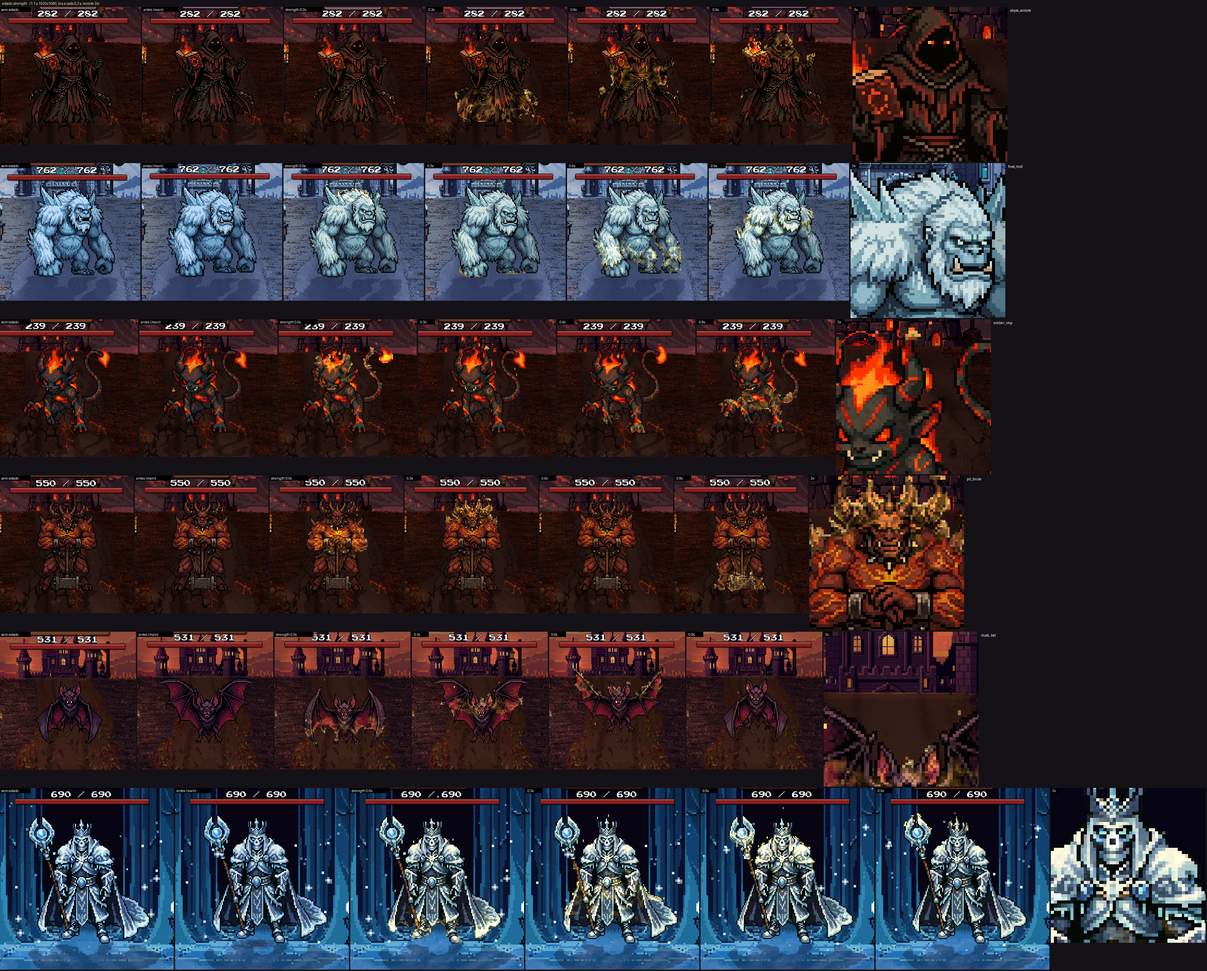
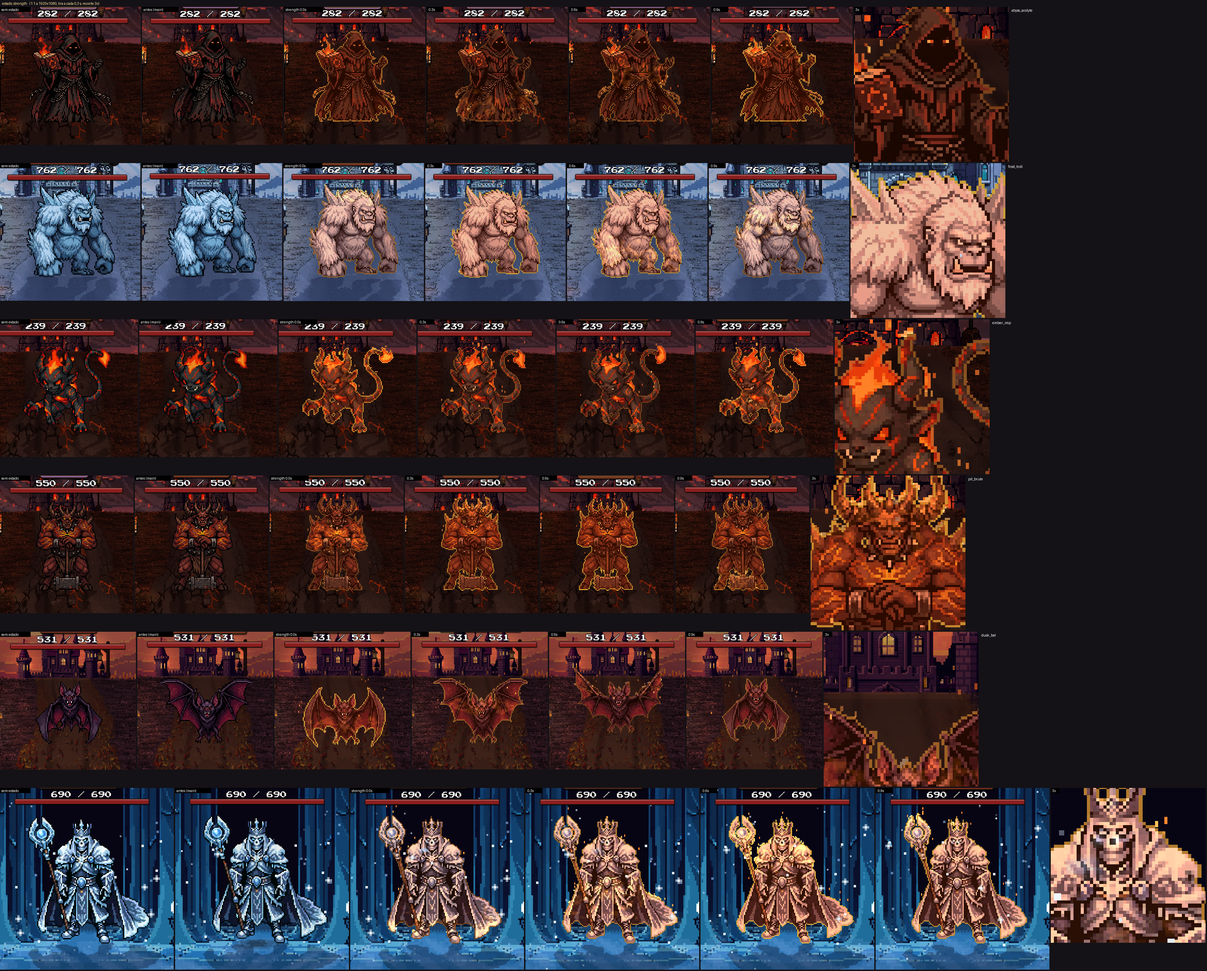
Estados v2, revisao do lead: forca, bloqueio, veu, furia e regeneracao
- forca: pulso quente vermelho-alaranjado constante, borda de 1 px de arte
  acendendo a cada pulso, faiscas continuas dos ombros e bracos; legivel em
  qualquer quadro, nao so no pico.
- bloqueio: nao dessatura nem escurece (so clareia), emissivo intacto (o
  fogo do diabrete fica); reflexo aco-azulado a cada 1,5 s, contorno de aco
  de 1 px dentro do sprite e brilhos nas bordas.
- veu: transparencia em dither correndo em faixas, fiapos finos e poucos na
  borda; sem as manchas cinza.
- furia: pico do batimento com teto, o corpo mantem o detalhe.
- regeneracao: cruzes verdes sobem de baixo para dentro do corpo.
- testes: medicao de faixa reta a 0,65 (a faixa antiga mede 1,0), pixels
  checados por ultimo, alocacao do downdraft pelo minimo de 3 rodadas;
  test_enemy_shadow_motion usa o relogio falso no bloco novo (o frame de
  sombra vazava para as suites seguintes) e libera ImageData/Canvas.
- captura libera cada ImageData depois de gravar.

diff --git a/memory/enemy_life.md b/memory/enemy_life.md
@@ -92,16 +92,19 @@ uma linha preta reta do torso ao pe" (era o sprite redesenhado escuro sob scisso
   cabeca, 3 estrelinhas tontas orbitando a cabeca (passam atras/na frente pela fase).
 - vulnerable: pulso violeta (mistura + aditivo), rachaduras em zigue-zague perto da borda que brilham em
   sequencia e acendem todas no tremor (guarda quebrada), brilhos lilas na borda.
-- strength: tom dourado e onda de forca subindo com frente ondulada (ruido), borda acende so quando a onda
-  passa, lambidas douradas de 1-3 texels acima da borda na onda, faiscas douradas com rastro de 2 px.
-- enraged: vermelho em batimento duplo (+ aditivo), olhos pulsando, rajadas de 10 baforadas de vapor
+- strength (revisto pelo lead): pulso quente vermelho-alaranjado CONSTANTE no corpo (4,2 rad/s), borda de 1 px
+  de arte (dentro do sprite) acendendo a cada pulso, onda dourada ondulada subindo por cima, lambidas de 1-3
+  texels acima da borda na onda, faiscas continuas das bordas de cima (ombros, bracos) com rastro de 2 px.
+- enraged: vermelho em batimento duplo com teto (o pico nao vira flash de dano), olhos pulsando, rajadas de 10 baforadas de vapor
   (1->2x2->cruz 3x3) com tremedeira de 0,3 s em cada rajada, idle 1,3x.
-- regen: onda verde-menta sobe pelo corpo (frente por ruido), centelhas no corpo, cruzes verdes nascem fora
-  do contorno e voam para dentro (`absorb`).
-- block: tom de aco frio, faixa de reflexo diagonal varrendo a cada 1,7 s (clara na frente, escura atras,
-  pela luminancia do pixel), borda brilha na faixa, brilhos de aco ocasionais.
-- veil: corpo translucido que respira (alfa 0,66-0,94), lavado frio, faixas de nevoa inclinadas atravessando o
-  corpo e em volta (ate 6 texels), nevoa nos pes.
+- regen: onda verde-menta sobe pelo corpo (frente por ruido), centelhas no corpo, cruzes verdes nascem
+  abaixo das bordas de baixo e SOBEM para dentro do corpo (`absorb`), para nao ler como veneno.
+- block (revisto pelo lead): SEM dessaturar e sem escurecer (so `max(c, ...)`: emissivo da criatura, como o
+  fogo do diabrete, fica intacto); faixa de reflexo aco-azulada diagonal a cada 1,5 s, contorno de aco de
+  1 px de arte nas bordas DENTRO do sprite, brilhos brancos piscando em pixels de borda.
+- veil (revisto pelo lead: as manchas cinza liam como sujeira): transparencia em dither ordenado que corre em
+  faixas diagonais pelo corpo (no maximo metade dos pixels some no pico da faixa, a criatura segue nitida),
+  lavado frio leve, fiapos de nevoa finos (1-2 texels da borda, poucos), nevoa baixa nos pes.
 - reducedMotion: o relogio do estado para (`ST.clock` so anda no update) e o shader fica num quadro fixo:
   tinta, chamas, bolhas e rachaduras paradas continuam informando; sem particula, tremida e ritmo.
 - Provas: `lovec . test_one screenshot_estados` (env `ESTADOS_IDS`, `ESTADOS_LIST`, `ESTADOS_TAG`,
@@ -121,7 +124,7 @@ uma linha preta reta do torso ao pe" (era o sprite redesenhado escuro sob scisso
   ficam (informacao), sem particula, sem tremida e sem mudar o ritmo.
 - Trava (`test_enemy_life`, `checkStatePixels`): shader compila; em 6 criaturas cada estado muda >= 4% do
   corpo contra o mesmo quadro sem estado; nenhuma faixa reta (fração alterada em janelas de 4 linhas acima e
-  abaixo nao salta mais que 0,55; o detector pega a faixa queimada antiga com salto 1,0); `drawBody` sem
+  abaixo nao salta mais que 0,65; o detector pega a faixa queimada antiga com salto 1,0; bordas que seguem o sprite chegam a ~0,55); `drawBody` sem
   alocacao.
 
 ## Ferramentas
